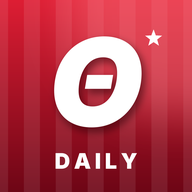
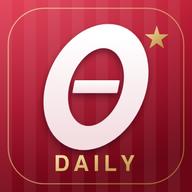
Εικονίδιο εφαρμογής: premium εκδοχή με χρυσό πλαίσιο, αστέρι και DAILY
Claude-Session: https://claude.ai/code/session_01BE28NuiU839gujPCXEFcvf

diff --git a/sw.js b/sw.js
@@ -1,4 +1,4 @@
-const C="thr-v53",SH=["./","manifest.webmanifest","icons/icon-180.png","icons/icon-192.png","icons/icon-512.png","assets/gate7.jpg","assets/oly-football.jpg","assets/oly-basketball.jpg","assets/oly-amateur.png","assets/ball-football.png","assets/ball-basketball.png","assets/ball-polo.png","assets/ball-volleyball.png","assets/ball-handball.png"];
+const C="thr-v54",SH=["./","manifest.webmanifest","icons/icon-180.png","icons/icon-192.png","icons/icon-512.png","assets/gate7.jpg","assets/oly-football.jpg","assets/oly-basketball.jpg","assets/oly-amateur.png","assets/ball-football.png","assets/ball-basketball.png","assets/ball-polo.png","assets/ball-volleyball.png","assets/ball-handball.png"];
 self.addEventListener("install",e=>{e.waitUntil(caches.open(C).then(c=>c.addAll(SH)).then(()=>self.skipWaiting()))});
 self.addEventListener("activate",e=>{e.waitUntil(caches.keys().then(k=>Promise.all(k.filter(x=>x!==C).map(x=>caches.delete(x)))).then(()=>self.clients.claim()))});
 self.addEventListener("fetch",e=>{const r=e.request;if(r.method!=="GET")return;const u=new URL(r.url);if(u.origin!==location.origin)return;
